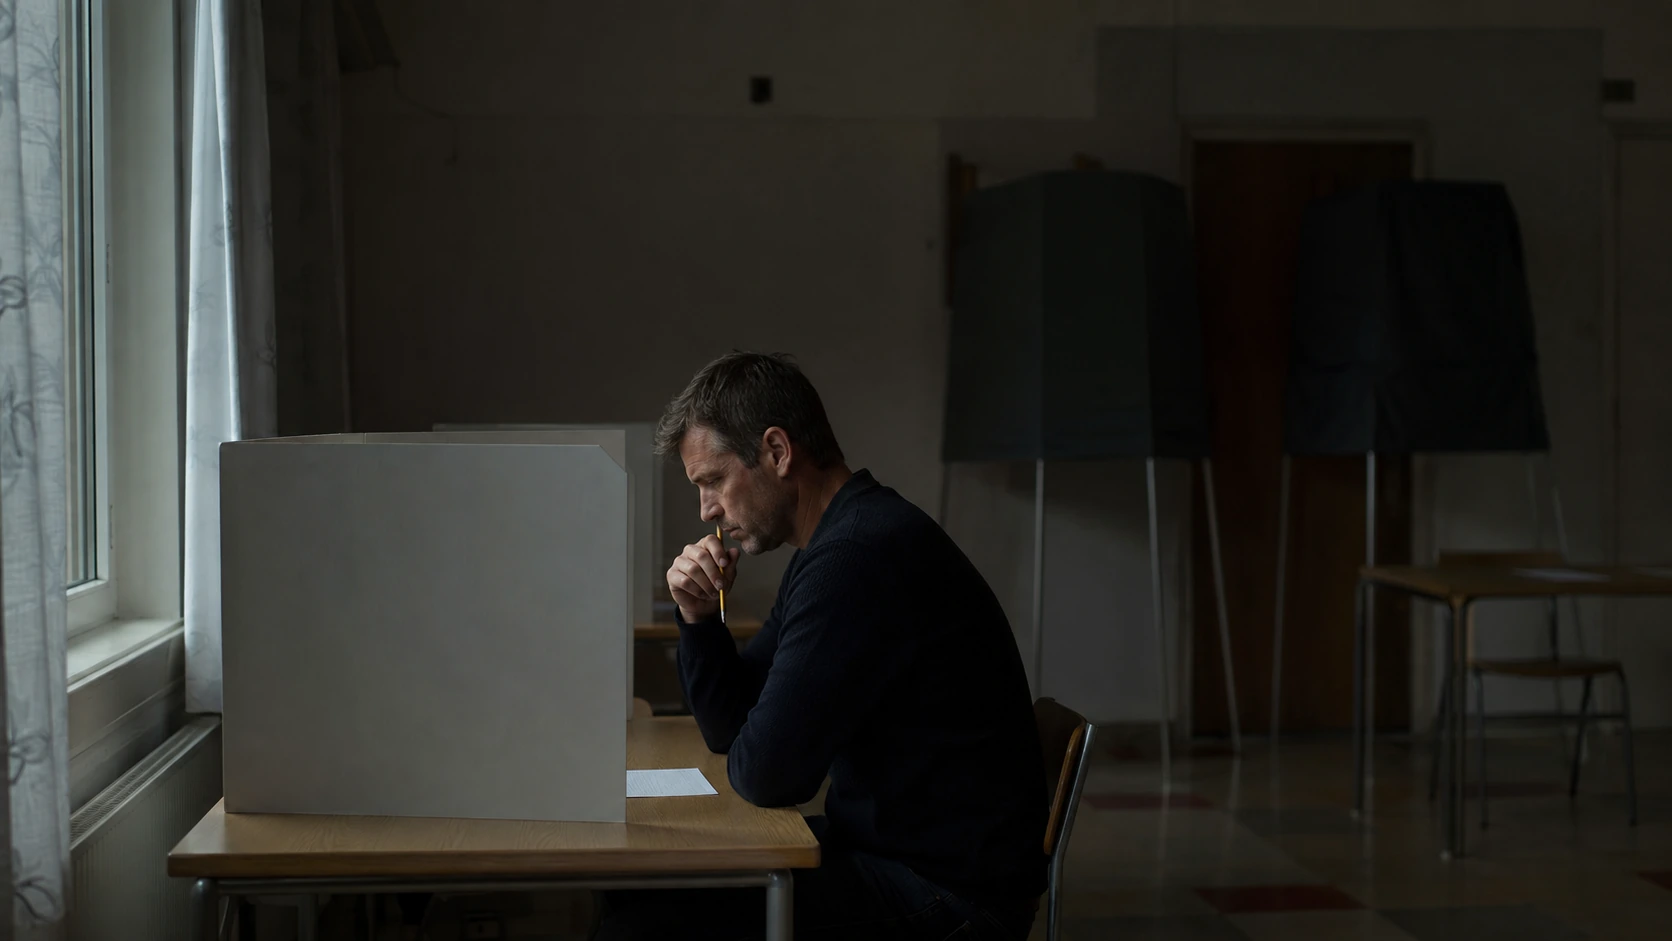
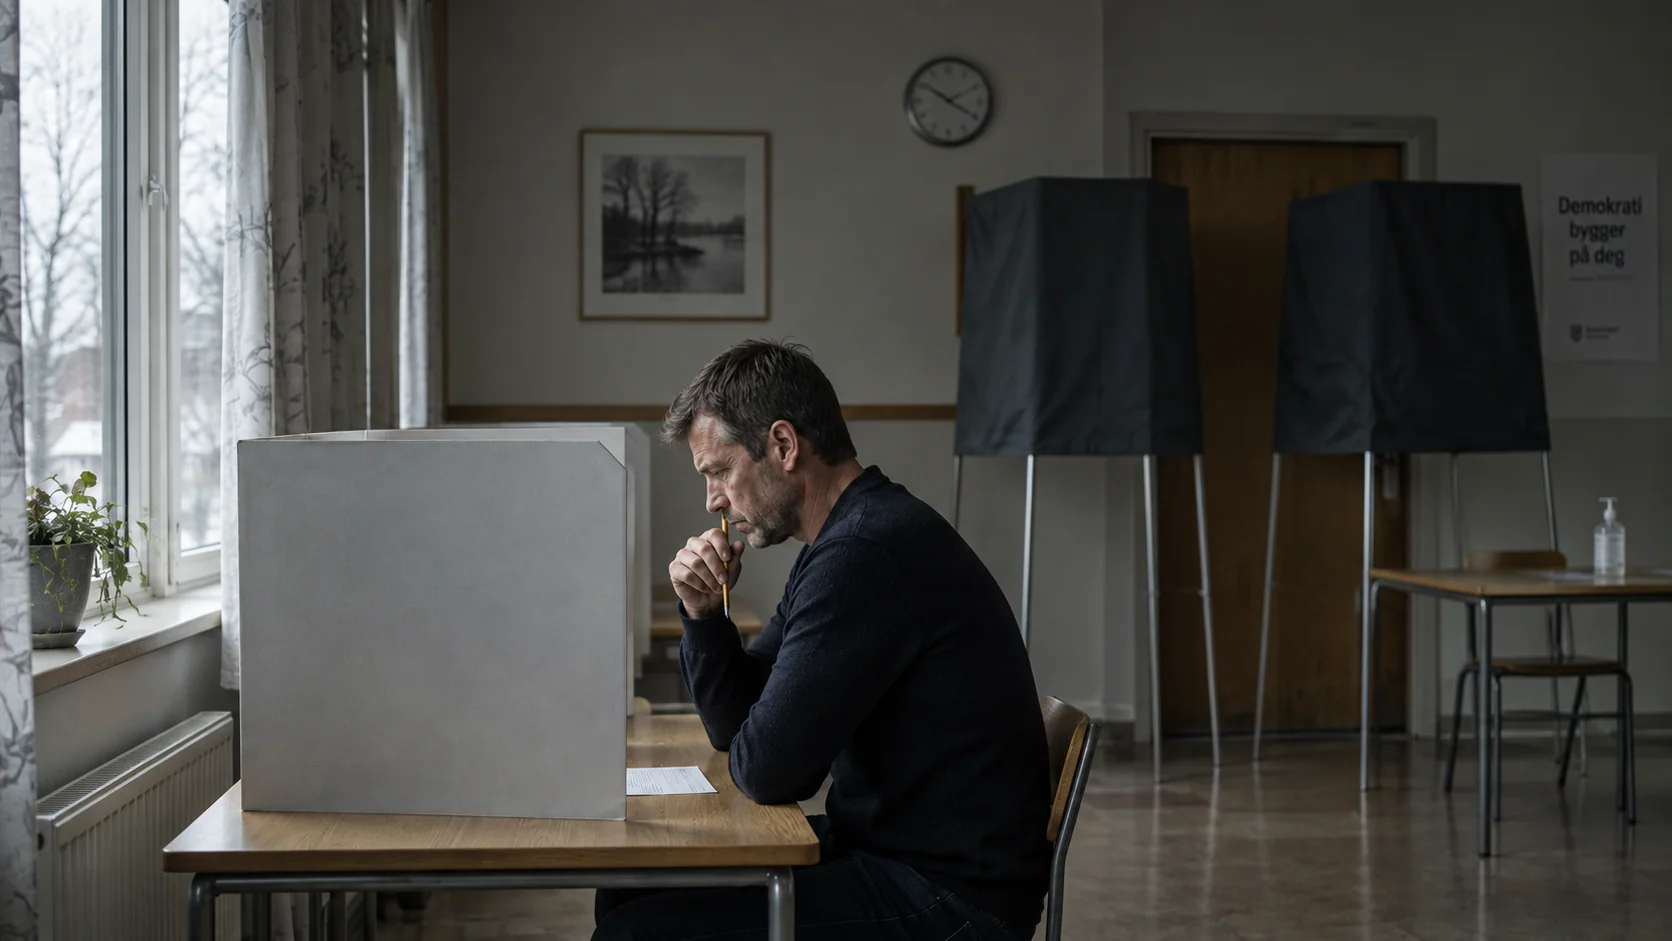
feat(web): unify page headers and refresh question index and essay art

diff --git a/apps/web/src/styles/layout.css b/apps/web/src/styles/layout.css
@@ -1710,31 +1710,15 @@
 		}
 	}
 
-	/* Shared index header (Fakta / Essäer / Frågor & svar) — kicker + title + one
-   ingress paragraph, so the three knowledge pages open identically. Rendered by
-   PageHead.astro; styled globally because the ingress is slotted parent content. */
-	.page-head {
-		/* The shared section header owns its own top AND bottom rhythm, so every page
-	   that follows it (Essäer's filter pills, Frågor & svar's category nav, the
-	   collection lists) sits the same distance below the ingress — the page tops stay
-	   homogeneous without each page setting its own top margin. */
-		margin-top: var(--space-phi);
-		margin-bottom: var(--space-phi);
-	}
-	.page-head-title {
-		margin: 0;
-		text-wrap: balance;
-	}
-	/* The ingress is now `.lead.lead--page` (see the top of this file); PageHead
-   emits both classes. */
-
 	/* Filter / category chip — a small pill shared by Essäer's filter row and the
    Frågor & svar category nav, so both index pages divide their content the same way
    at the top (same shape, same padding above/below). Pair with `.label` for the
    tight uppercase look. Active = aria-pressed (Essäer buttons) or aria-current
    (Frågor & svar jump links). */
 	.filter-chip {
-		display: inline-block;
+		display: inline-flex;
+		align-items: center;
+		justify-content: center;
 		padding: 0.4rem 0.875rem;
 		/* --color-divider is a hairline for rules (1.28:1) and cannot carry a control
 	   boundary; --color-warm is the quietest token that clears WCAG 1.4.11's 3:1. */

diff --git a/apps/web/src/styles/editorial.css b/apps/web/src/styles/editorial.css
@@ -1,11 +1,5 @@
 /* Shared presentation contracts. Unlayered so Astro's scoped page styles and
    shared styles have the same cascade rank; page-specific refinements stay local. */
-.page-head {
-	margin-block: 0 var(--space-group);
-}
-.page-head-title {
-	text-wrap: balance;
-}
 .site-header .site-nav {
 	max-width: var(--art-width);
 	margin-inline: auto;
@@ -98,14 +92,8 @@ a:focus-visible .media-frame::before {
 .svar-section {
 	scroll-margin-top: calc(var(--mast-height, 5rem) + 1.5rem);
 }
-.svar-index .svar-intro {
-	margin-block: var(--space-group);
-}
 .svar-index .svar-pelare {
-	margin-top: var(--space-section);
-}
-.svar-index .svar-search-actions:has(.svar-search-status:empty):has(button[hidden]) {
-	display: none;
+	margin-block: 0 var(--space-section);
 }
 .svar-sources,
 .svar-related,
